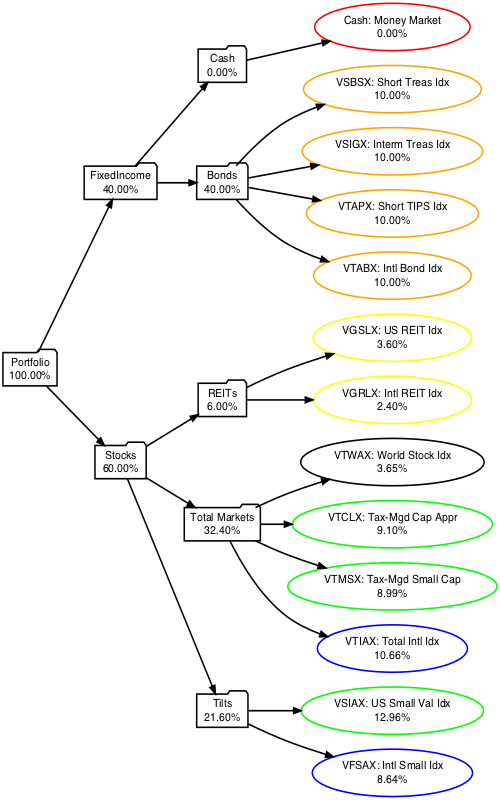
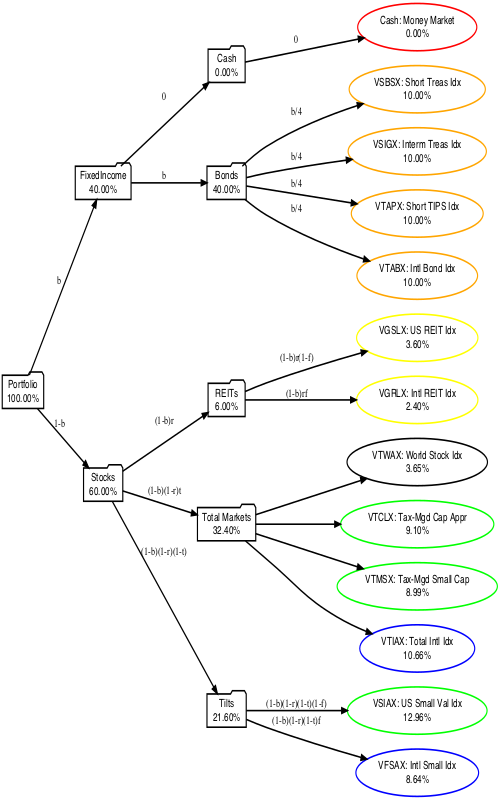
tweak

diff --git a/_posts/2021-06-19-retirement-portfolio.md b/_posts/2021-06-19-retirement-portfolio.md
@@ -70,8 +70,8 @@ number of limiting cases:
 - In the limit as $w \to 0$, income becomes just $R \to P + S$.  
 - In the limit as $y \to 0$, Social Security starts now and $R \to w C + P + S$.  
 - In the limit as $y \to +\infty$, Social Security never happens and the money has to last
-  forever.  So $R \to P$.  That's because the capital $C$ doesn't matter much spread
-  across infinite years.  
+  forever.  So $R \to P$.  (That's because the capital $C$ doesn't matter much spread
+  across infinite years.)  
 - In the limit as $S \to 0$, then $R \to w C + P$, because we can then set $y = 0$
   because there's no point in waiting for a Social Security income of 0.  
 - In the limit as $C \to 0$, then $R \to P + S$ because if there's no capital we might as
@@ -152,16 +152,20 @@ available for peer review.
     Nobel-winning 
     [Fama-French 3-factor model](https://en.wikipedia.org/wiki/Fama%E2%80%93French_three-factor_model).  
 
-The summary rules for how to automate this are from 4 parameters $b$, $r$, $f$, and $t$:  
+The summary rules for how to automate this are from 4 parameters $b$, $r$, $f$, and $t$, 
+as labelled on the arcs in the tree:  
 - If $b = 0.4$ is the fraction to put in bonds, then $1 - b = 0.6$ is the amount in
   stocks.  
-- If $r = 0.1$ is the fraction of stocks to put in REITs, then $r (1-b) = 0.06$ goes in
-  REITs.  A fraction $(1-r)(1-b) = 0.54$ goes in the more broad stock indexes.  
-- If $f = 0.4$ is the fraction of equity to put in foreign stocks, use that to divide up
-  both REITs and the other stocks between US and non-US.  
-- If $t = 0.6$ is the amount to devote to total market indexing, so that's $(1-r)(1-b)t = 0.324$.  
-- Then $1-t = 0.4$ is the amount to devote to small-value and small tilts, so that's 
-  $(1-r)(1-b)(1-t) = 0.216$.  
+- If $r = 0.1$ is the fraction of stocks to put in REITs, then $(1-b)r = 0.06$ goes in
+  REITs.  A fraction $(1-b)(1-r) = 0.54$ goes in the more broad stock indexes.  
+  - If $f = 0.4$ is the fraction of equity to put in foreign stocks, then US REITs get
+    a fraction $(1-b)r(1-f)$. 
+  - Foreign REITs get $(1-b)rf$.  
+- If $t = 0.6$ is the amount to devote to total market indexing, so that's $(1-b)(1-r)t = 0.324$.  
+- Then $1-t = 0.4$ then the amount to devote to small-value and small tilts is
+  $(1-b)(1-r)(1-t) = 0.216$.  
+  - US small value gets $(1-b)(1-r)(1-t)(1-f)$.  
+  - Foreign small value gets $(1-b)(1-r)(1-t)f$.  
 - Avoid any transactions in the taxable assets, moving things in the IRAs instead.
 
 <img src="{{ site.baseurl }}/images/2021-06-19-retirement-portfolio-table.jpg" width="400" height="227" alt="Asset allocation table for the Weekend Retirment Portfolio" title="Asset allocation table for the Weekend Retirment Portfolio" style="float: right; margin: 3px 3px 3px 3px; border: 1px solid #000000;"/>
